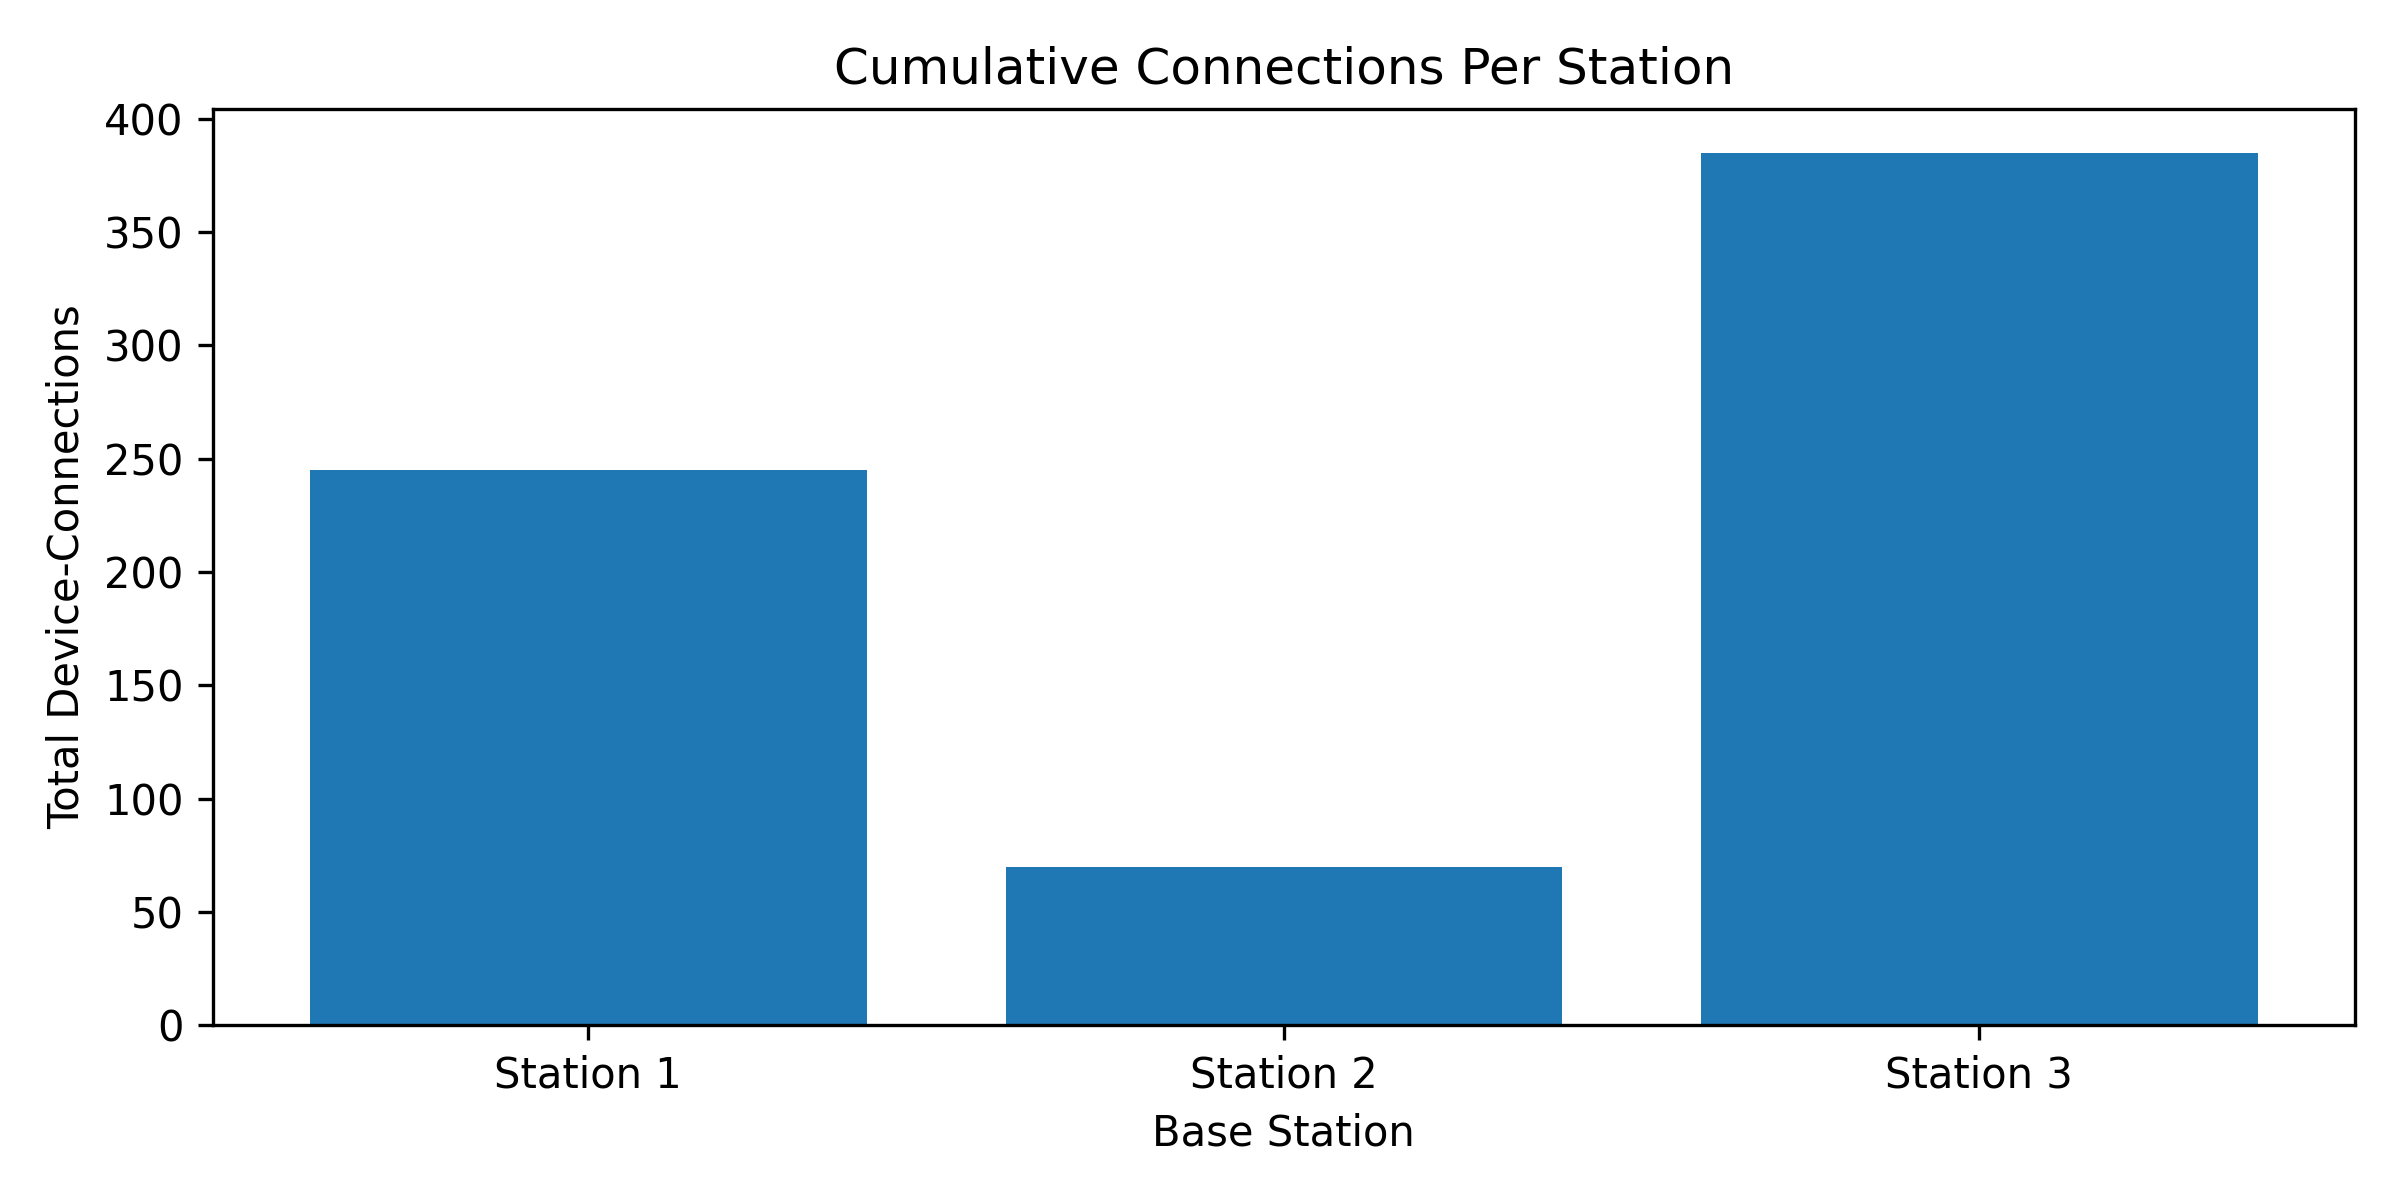
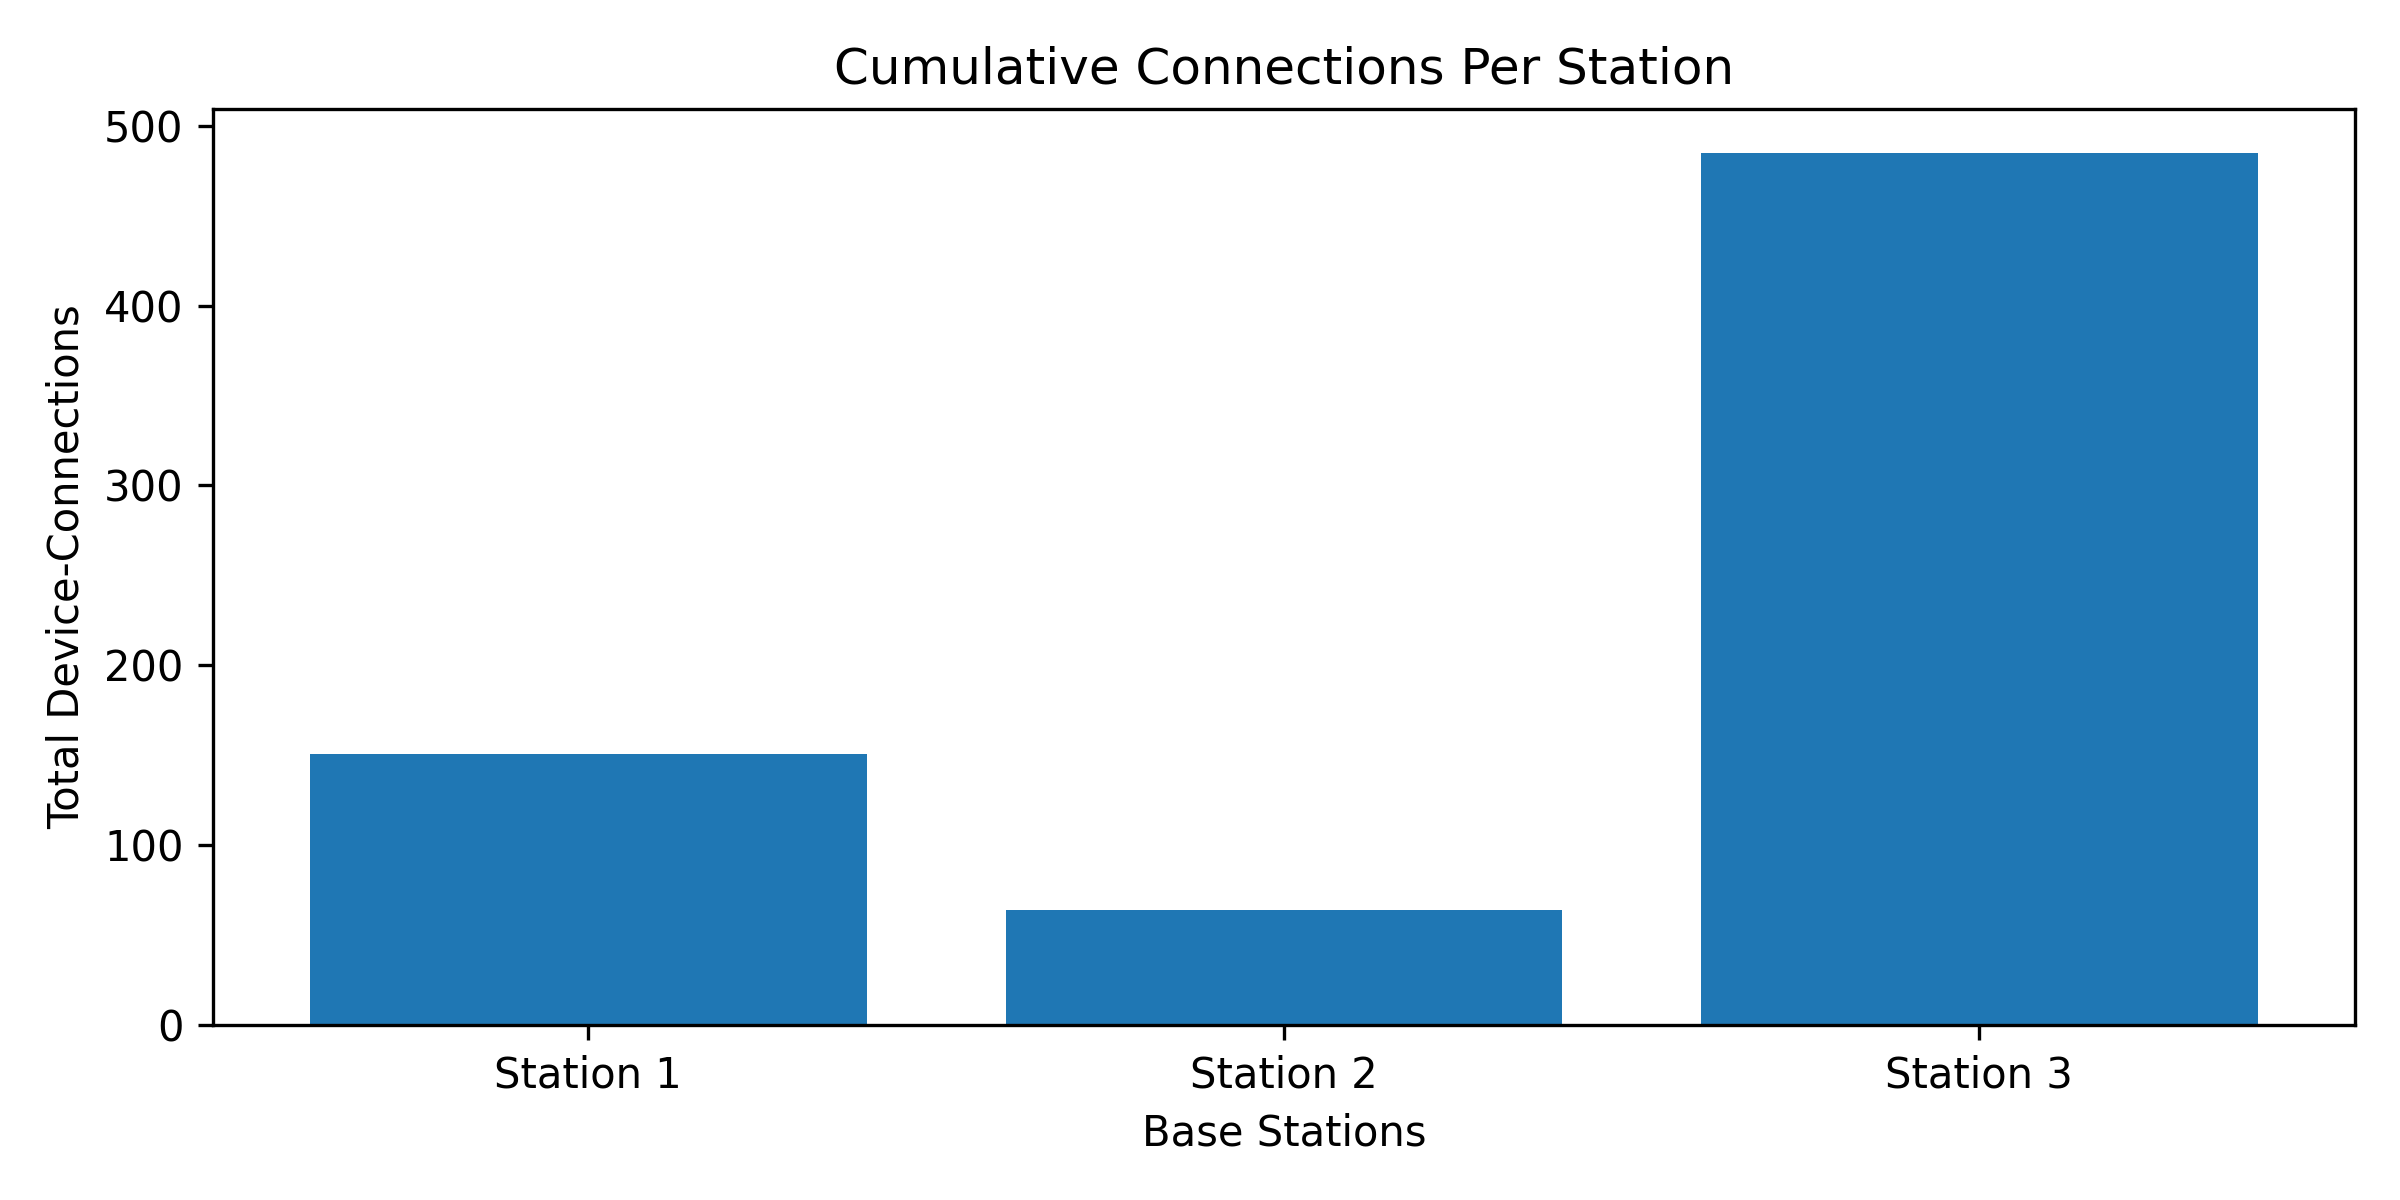
project updated

diff --git a/iot_simulator/metrics.py b/iot_simulator/metrics.py
@@ -70,7 +70,7 @@ def plot_connections(history: list[dict]):
 
     plt.figure(figsize=(8, 4))
     plt.bar([f"Station {sid}" for sid in station_ids], [totals[sid] for sid in station_ids])
-    plt.xlabel("Base Station")
+    plt.xlabel("Base Stations")
     plt.ylabel("Total Device-Connections")
     plt.title("Cumulative Connections Per Station")
     plt.tight_layout()
@@ -90,7 +90,7 @@ def plot_positions(history: list[dict], stations: list):
 
     # Plot each device's trajectory
     n_devices = len(history[0]["positions"])
-    colors = plt.cm.tab10(range(n_devices))
+    colors = plt.cm.tab20(range(n_devices))
 
     for i in range(n_devices):
         xs = [r["positions"][i][0] for r in history]
